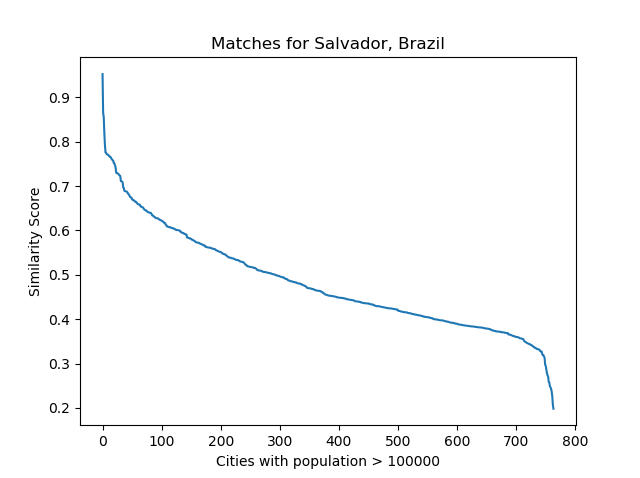
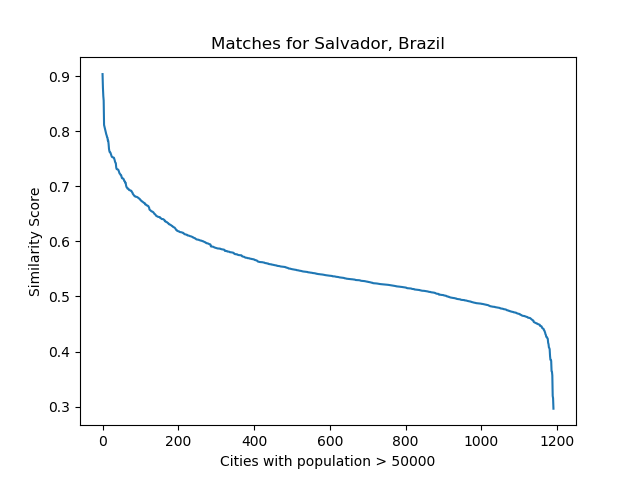
updates

diff --git a/mainScript.py b/mainScript.py
@@ -4,10 +4,11 @@ import numpy as np
 from sklearn.preprocessing import StandardScaler
 import seaborn as sns
 import matplotlib.pyplot as plt
+import random
 
 ### parameters
 # population cutoff for cities:
-pop_cutoff = 100000
+pop_cutoff = 50000
 
 # similarity score cutoff for matching:
 sim_cutoff = 0.7
@@ -17,7 +18,11 @@ log_transform = ["GDP", "Population", "GDP_per_cap_method1"]
 
 # list of variables for feature scaling
 # (subtracting the mean and dividing by std deviation of distribution)
-feature_scaling = ["GDP", "Population", "GDP_per_cap_method1", "HDD", "CDD", "HDI_2", "Fuel_price"]
+feature_scaling = ["GDP", "Population", "GDP_per_cap_method1",
+                   "HDD", "CDD", "HDI_2", "Fuel_price"]
+
+# city to run diagnostic tests on:
+test_city = 'BR0003'
 
 ### utilites
 # utility to find the list of actions from the CDP actions data base with a given gcom ID
@@ -50,7 +55,8 @@ def distance(city1_dict, city2_dict):
         dist[1+i] = city1_dict[feature] - city2_dict[feature]
     return dist
 
-# utility to calculate similarity between two cities, given lists of their characteristics
+# utility to calculate similarity between two cities,
+# given lists of their characteristics
 # using numpy to calculate exponential function and euclidian distance between the
 # vectors of city characteristics
 def similarity(city1_dict, city2_dict):
@@ -59,7 +65,6 @@ def similarity(city1_dict, city2_dict):
 
 ### prepare dictionary of GCoM cities
 # read gcom cities into pandas dataframe
-# cities = pd.read_csv(r"C:\Users\roman.hennig\Documents\Workspace\GCoMActionExplorer\gcom_cities.csv", encoding="utf-8")
 cities = pd.read_csv(r"gcom_cities.csv", encoding="utf-8")
 
 # select cities with population > pop_cutoff, reset index:
@@ -102,8 +107,6 @@ for index, row in cities.iterrows():
 ### prepare CDP cities for matching
 
 # read cdp actions into pandas dataframe
-# actions_df = pd.read_csv(r"C:\Users\roman.hennig\Documents\Workspace\GCoMActionExplorer\Actions_cdp_2012-2017.csv",
-                         # encoding="utf-8")
 actions_df = pd.read_csv(r"Actions_cdp_2012-2017.csv",
                         encoding="utf-8")
 
@@ -148,16 +151,27 @@ for i, city1_id in enumerate(cities['new_id']):
             city1['matches'] += [{'city_id': city2_id, 'score': sim}]
             city2['matches'] += [{'city_id': city1_id, 'score': sim}]
 
-# calculate top ten matches for Salvador and print cities with match scores
-top_ten = sorted(citiesDict['BR0003']['matches'], key = lambda k: k['score'], reverse = True)[:10]
-print("Top Ten Matches for Salvador, Brazil:")
+# calculate top ten matches for test city and print cities with match scores
+top_ten = sorted(citiesDict[test_city]['matches'], key = lambda k: k['score'],
+                 reverse = True)[:10]
+print("Top Ten Matches for {}, {}:".format(citiesDict[test_city]['city'],
+                                           citiesDict[test_city]['country']))
 for entry in top_ten:
-    print(citiesDict[entry['city_id']]['city'] + ", " + citiesDict[entry['city_id']]['cc'] + ". Score: {:05.4f}".format(entry['score']))
+    print(citiesDict[entry['city_id']]['city'] + ", " + \
+          citiesDict[entry['city_id']]['country'] + \
+          ". Score: {:05.4f}".format(entry['score']))
     # # print all actions that matched cities have taken
     # print("City's actions: ")
     # for action in citiesDict[entry['city_id']]['actions']:
     #     print(action['reporting year'],":",action['category'],":",action['activity'])
 
+
+# # look at 10 random scores for other cities with test city:
+# print("Random Ten Scores for {}, {}:".format(citiesDict[test_city]['city'], citiesDict[test_city]['country']))
+# for i in range(10):
+#     random_match = random.choice(list(citiesDict))
+#     print(citiesDict[random_match]['city'] + ", " + citiesDict[random_match]['cc'] + ". Score: {:05.4f}".format(
+#         similarity(citiesDict[random_match], citiesDict[test_city])))
 
 # # some fun seaborn plots
 # sns.lmplot(x='Population', y='GDP', data=cities)
@@ -172,17 +186,18 @@ for entry in top_ten:
 # plt.show()
 
 
-# creating a visual for Salvadors similarity scores with other cities
+# creating a visual for test city's similarity scores with other cities
 sim_scores = list(range(len(cities.index)))
 for i, entry in enumerate(citiesDict.values()):
-    sim = similarity(citiesDict['BR0003'], entry)
+    sim = similarity(citiesDict[test_city], entry)
     sim_scores[i] = sim
     if sim > sim_cutoff:
         # print(entry['city'] + ", similarity: {}".format(sim))
-        entry['matches'] += ['BR0003']
+        entry['matches'] += [test_city]
 
 plt.plot(list(reversed(sorted(sim_scores)[:-1])))
 plt.ylabel('Similarity Score')
 plt.xlabel('Cities with population > {}'.format(pop_cutoff))
-plt.title('Matches for Salvador, Brazil')
+plt.title('Matches for {}, {}:'.format(citiesDict[test_city]['city'],
+                                       citiesDict[test_city]['country']))
 plt.show()

diff --git a/data_visuals.py b/data_visuals.py
@@ -1,0 +1,95 @@
+import csv
+import pandas as pd
+import numpy as np
+from sklearn.preprocessing import StandardScaler
+import seaborn as sns
+import matplotlib.pyplot as plt
+
+### parameters
+# population cutoff for cities:
+pop_cutoff = 0
+
+
+# similarity score cutoff for matching:
+sim_cutoff = 0.7
+
+# list of variables that should be log transformed
+log_transform = ["GDP", "Population", "GDP_per_cap_method1"]
+
+# list of variables for feature scaling
+# (subtracting the mean and dividing by std deviation of distribution)
+feature_scaling = ["GDP", "Population", "GDP_per_cap_method1", "HDD", "CDD", "HDI_2", "Fuel_price"]
+
+### utilites
+# utility to find the list of actions from the CDP actions data base with a given gcom ID
+# and data frame of actions
+def findListOfActions(actions_df, gcomId):
+    # pull out the relevant actions for the city from the data base,
+    # reset the index
+    city_actions_df = actions_df.loc[actions_df['Account number'] ==
+                          citiesDict[gcomId]['cdp_id']].reset_index(drop=True)
+    # create placeholder list of actions
+    actionsList = [{} for x in range(len(city_actions_df))]
+    # make key list for each action dict
+    action_keys = ['reporting year', 'category', 'activity'] #, 'description']
+    for index, action in city_actions_df.iterrows():
+        action_values = [action['Reporting Year'], action['Sector'],
+                         action['Emissions reduction activity']]
+                         #, action['Action description']]
+        # zip keys and values together to create the dict
+        actionsList[index] = dict(zip(action_keys, action_values))
+    return actionsList
+
+def distance(city1_dict, city2_dict):
+    # result will be a list of distances in each characteristic
+    dist = list(range(1+len(feature_scaling)))
+    # first check whether cities are in same country (by country code cc)
+    # if yes, this distance is 0. if no, 1
+    dist[0] = int(city1_dict['cc'] != city2_dict['cc'])
+    # distance for all numeric features
+    for i, feature in enumerate(feature_scaling):
+        dist[1+i] = city1_dict[feature] - city2_dict[feature]
+    return dist
+
+# utility to calculate similarity between two cities, given lists of their characteristics
+# using numpy to calculate exponential function and euclidian distance between the
+# vectors of city characteristics
+def similarity(city1_dict, city2_dict):
+    dist = distance(city1_dict, city2_dict)
+    return np.exp(- np.linalg.norm(dist)/len(dist))
+
+### prepare dictionary of GCoM cities
+# read gcom cities into pandas dataframe
+# cities = pd.read_csv(r"C:\Users\roman.hennig\Documents\Workspace\GCoMActionExplorer\gcom_cities.csv", encoding="utf-8")
+cities = pd.read_csv(r"gcom_cities.csv", encoding="utf-8")
+
+# select cities with population > pop_cutoff, reset index:
+cities = cities.loc[cities['Population'] > pop_cutoff].reset_index(drop=True)
+
+
+# print(len(cities.index))
+
+visual_variable = "Population"
+
+x = pd.Series(cities[visual_variable], name = visual_variable)
+sns.distplot(x, bins=50, kde=False).set_title("Distribution of {} of GCOM cities "
+                          "with population > {}".format(visual_variable, pop_cutoff))
+plt.show()
+
+# apply log transformation
+cities[log_transform] \
+    = cities[log_transform].apply(np.log)
+
+# x = pd.Series(cities[visual_variable], name = 'log of {}'.format(visual_variable))
+# sns.distplot(x, bins=50, kde=False).set_title("Distribution of {} of GCOM cities with population > {}"
+#     " after a log transform".format(visual_variable, pop_cutoff))
+# plt.show()
+
+# perform feature scaling:
+cities[feature_scaling] \
+    = StandardScaler().fit_transform(cities[feature_scaling])
+
+x = pd.Series(cities[visual_variable], name = 'Scaled log of {}'.format(visual_variable))
+sns.distplot(x, bins=50, kde=False).set_title("Distribution of {} of GCOM cities with population > {}"
+    " after a log transform and feature scaling".format(visual_variable, pop_cutoff))
+plt.show()
